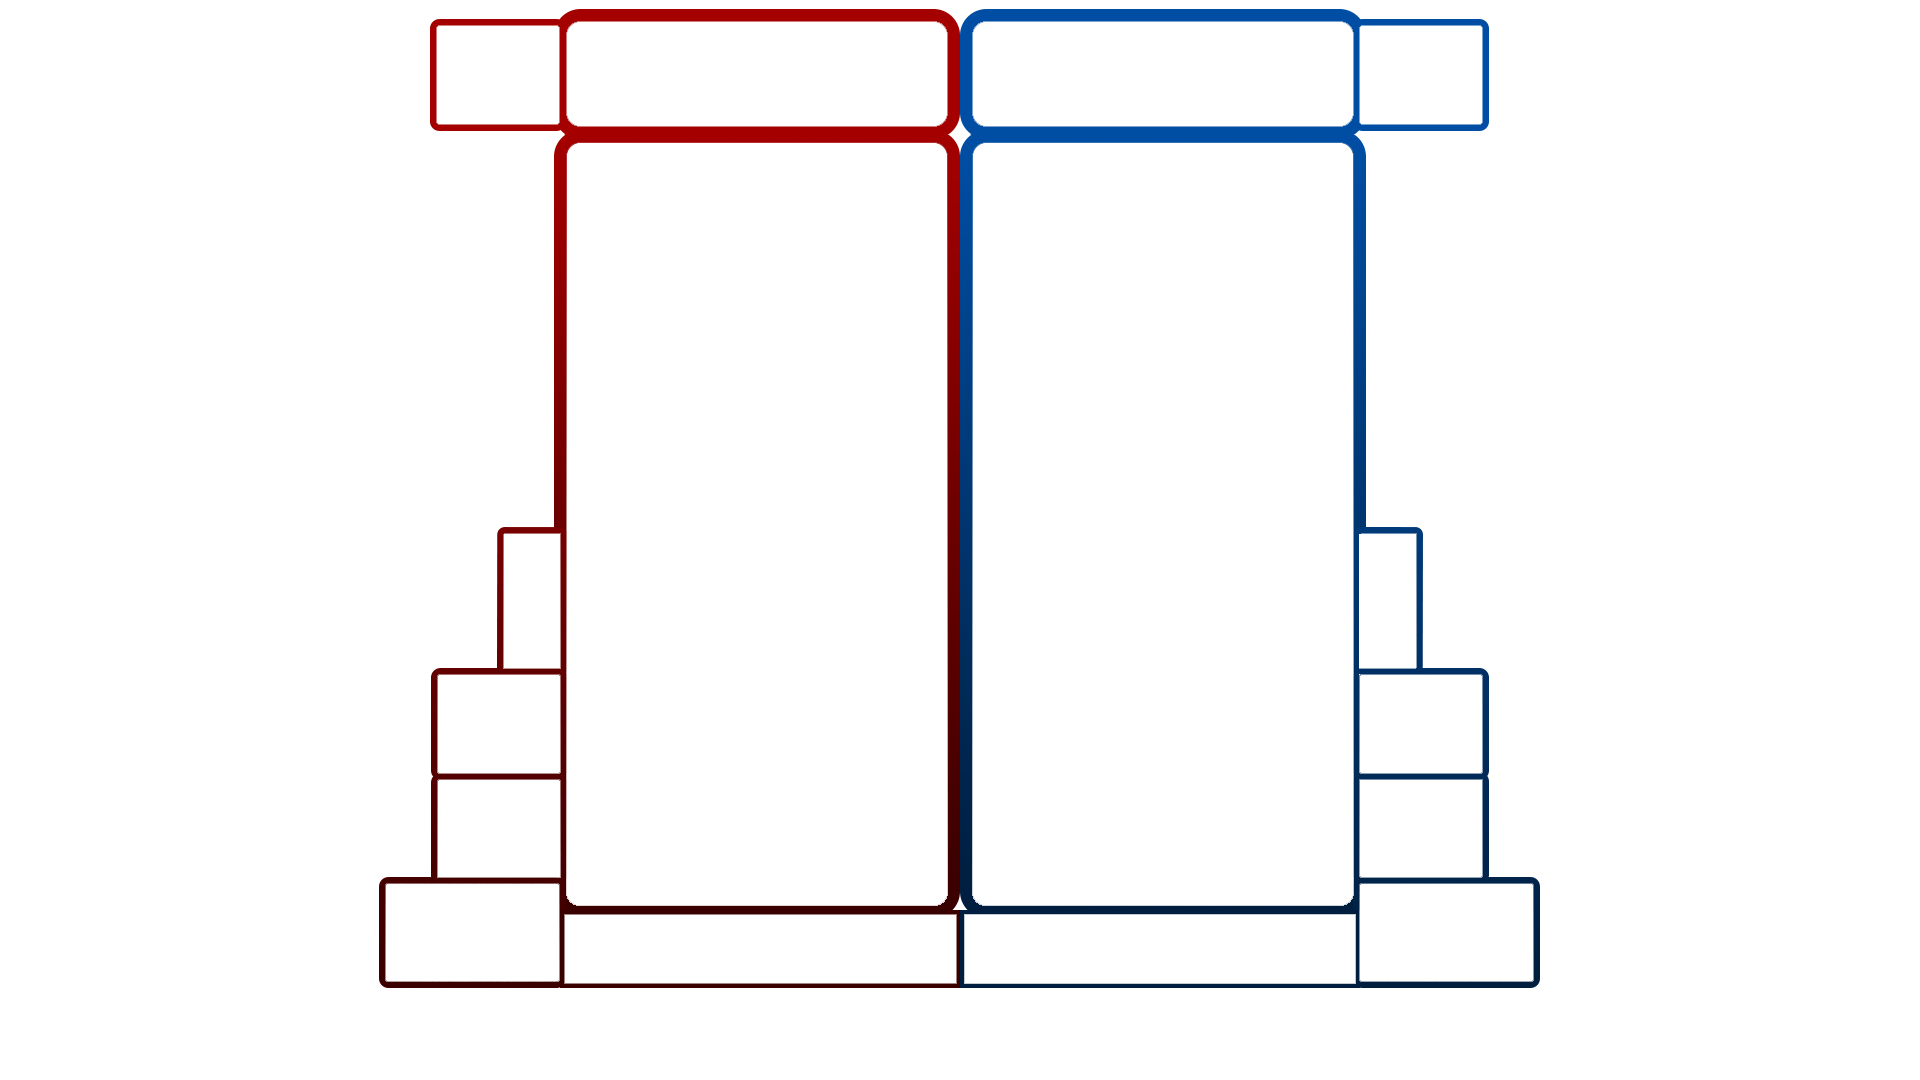
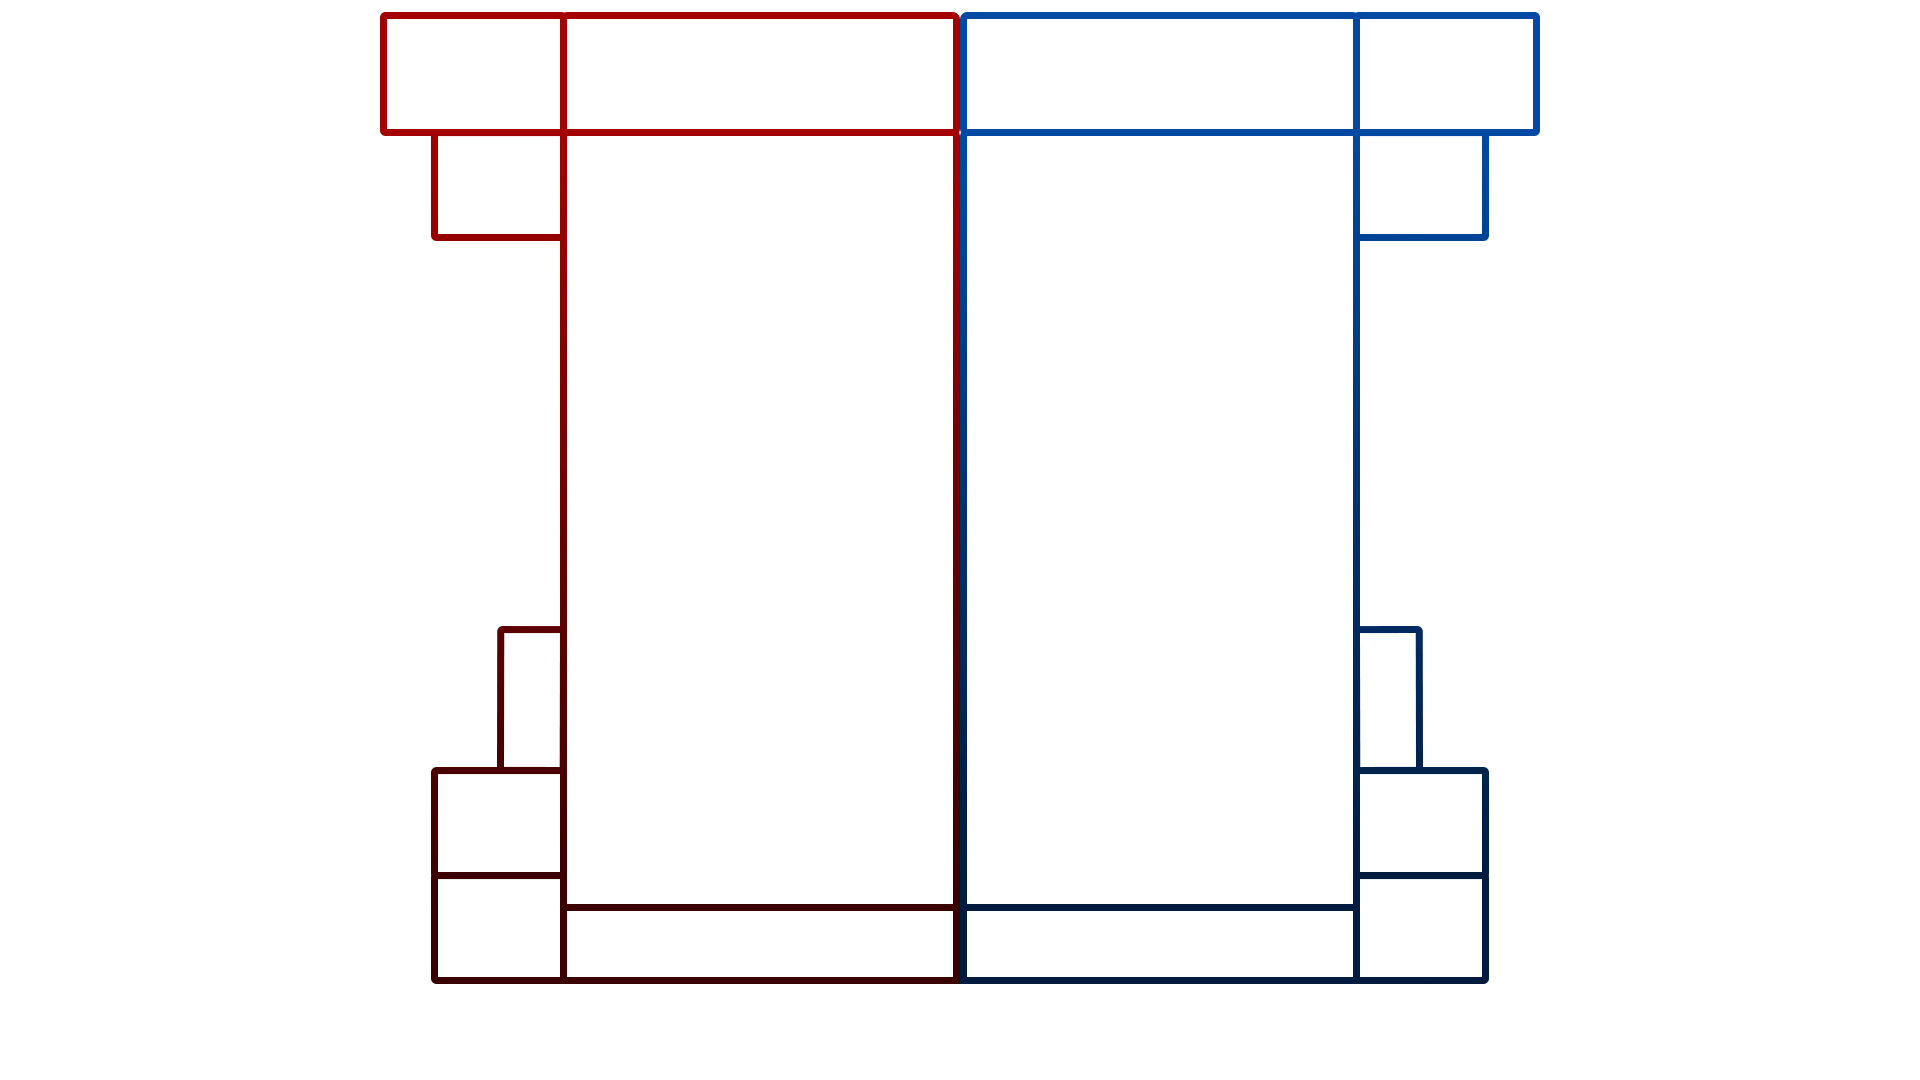
feat(league25): update to using new layout

diff --git a/public/views/mp/league25.html b/public/views/mp/league25.html
@@ -19,8 +19,8 @@
 
 			.match {
 				--scale: 1;
-				--board-offset: 392px;
-				--score-width: 369px;
+				--board-offset: 393px;
+				--score-width: 377px;
 				--player-width: calc(var(--width) / 2 / var(--scale));
 
 				position: absolute;
@@ -35,18 +35,7 @@
 				line-height: 32px;
 				height: 98px;
 				right: var(--offset);
-			}
-
-			.p1 .box {
-				border-image-source: url(/images/league/border_red.png);
-			}
-
-			.p2 .box {
-				border-image-source: url(/images/league/border_blue.png);
-			}
-
-			.no_border .box {
-				border-image-source: url(/images/league/border_transparent.png) !important;
+				border-image-source: url(/images/league/border_transparent.png);
 			}
 
 			.box .header {
@@ -61,11 +50,11 @@
 			}
 
 			.score {
-				--offset: 6px;
+				--offset: 0;
 				width: var(--score-width);
 				padding-right: 0;
-				height: 92px;
-				top: 15px;
+				height: 98px;
+				top: 13px;
 				overflow: hidden;
 				font-size: 40px;
 				line-height: 46px;
@@ -111,7 +100,7 @@
 			.lines,
 			.next_piece {
 				width: 110px;
-				height: 82px;
+				height: 94px;
 				--offset: var(--board-offset);
 			}
 
@@ -119,23 +108,25 @@
 				padding-top: 6px;
 				width: 165px;
 				padding-right: 0;
-				top: unset;
-				bottom: -988px;
+				top: 13px;
+			}
+
+			.lines .content {
+				line-height: 44px;
 			}
 
 			.next_piece {
-				top: unset;
-				bottom: -780px;
+				top: 129px;
 				height: 86px;
 			}
 
 			.board {
-				--offset: 6px;
+				--offset: 0;
 				--border-size: 10;
 				padding: 6px 0 0;
-				width: 372px;
-				height: 751px;
-				top: 137px;
+				width: 380px;
+				height: 756px;
+				top: 129px;
 			}
 
 			.name,
@@ -146,12 +137,9 @@
 			}
 
 			.name {
-				top: 908px;
-			}
-
-			.name {
+				top: 904px;
 				--offset: 0;
-				width: 378px;
+				width: 381px;
 				padding: 3px 0;
 				height: 54px;
 				white-space: nowrap;
@@ -218,12 +206,14 @@
 			.hearts,
 			.level,
 			.tetris_rate,
-			.drought {
+			.drought,
+			.lines,
+			.next_piece {
 				--offset: var(--board-offset);
 			}
 
 			.hearts {
-				bottom: -674px;
+				bottom: -774px;
 				padding: 0 6px;
 				height: unset;
 				font-size: 0px;
@@ -244,6 +234,11 @@
 				display: inline-block;
 			}
 
+			.bo7 .hearts {
+				padding-top: 5px;
+				padding-bottom: 5px;
+			}
+
 			.hearts span.win {
 				background-image: url(/views/heart_red.png);
 			}
@@ -252,21 +247,18 @@
 			.tetris_rate,
 			.drought {
 				padding-top: 5px;
-				width: 78px;
+				width: 113px;
+				height: 84px;
 			}
 
 			.tetris_rate,
 			.drought {
-				top: 19px;
-				width: 115px;
-				height: 84px;
+				bottom: -984px;
 			}
 
 			.level {
 				top: unset;
-				bottom: -883px;
-				width: 113px;
-				height: 81px;
+				bottom: -879px;
 			}
 
 			.drought {
@@ -337,7 +329,7 @@
 				display: none;
 				position: absolute;
 				transform-origin: 50% 50%;
-				top: 200px;
+				top: 300px;
 				--offset: 370px;
 				right: var(--offset);
 			}
@@ -378,10 +370,6 @@
 				left: 0;
 				overflow: hidden;
 				z-index: 2000;
-				display: none;
-			}
-
-			.bo5 #overlay {
 				background: url(/images/league/Bo5NTC.png) no-repeat top left;
 			}
 
@@ -560,23 +548,6 @@
 					.classList.add(QueryString.get('bracket'));
 			}
 
-			if (QueryString.get('border') === '0') {
-				document.querySelector('#stream_bg').classList.add(`no_border`);
-			}
-
-			if (/^[57]$/.test(QueryString.get('overlay'))) {
-				document
-					.querySelector('#stream_bg')
-					.classList.add(`bo${QueryString.get('overlay')}`);
-				document.querySelector('#overlay').style.display = 'block';
-			}
-
-			if (/^0\.[1-9]\d*$/.test(QueryString.get('overlay_opacity'))) {
-				document.querySelector('#overlay').style.opacity = parseFloat(
-					QueryString.get('overlay_opacity')
-				);
-			}
-
 			const isDAS = QueryString.get('style') === 'das';
 
 			const SHOW_SIMUL_TETRIS = QueryString.get('simultris') !== '0';
@@ -695,7 +666,7 @@
 						{
 							biglogo: true,
 							bigntc: true,
-							field_pixel_size: 4.691358024691358,
+							field_pixel_size: 4.75,
 							running_trt_dot_size: 5,
 							preview_pixel_size: 3.5,
 							format_score: v => readableScoreFomatter(v),
@@ -905,6 +876,19 @@
 			}
 
 			const competition = new Competition(players);
+
+			competition.API._setBestOf = competition.API.setBestOf;
+			competition.API.setBestOf = function (num) {
+				document.querySelector('#stream_bg').classList.remove('bo7');
+
+				if (num === 7) {
+					document.querySelector('#stream_bg').classList.add(`bo${num}`);
+				}
+
+				this._setBestOf(num);
+			};
+
+			competition.API.setBestOf(5); // default to Bo5
 
 			competition.API.showProfileCard = function (visible, match_idx) {
 				const match_players = players.slice(2 * match_idx, 2 * match_idx + 2);
